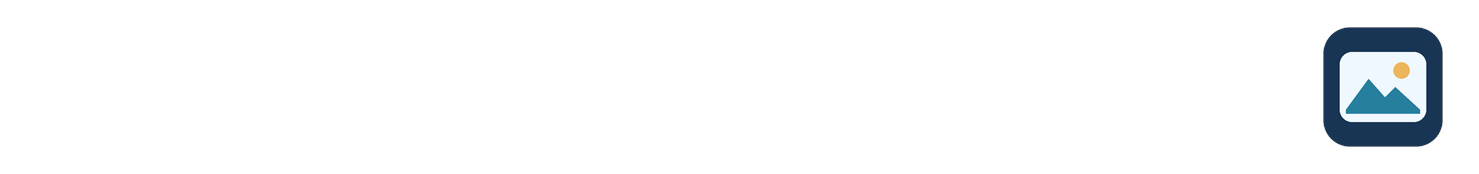
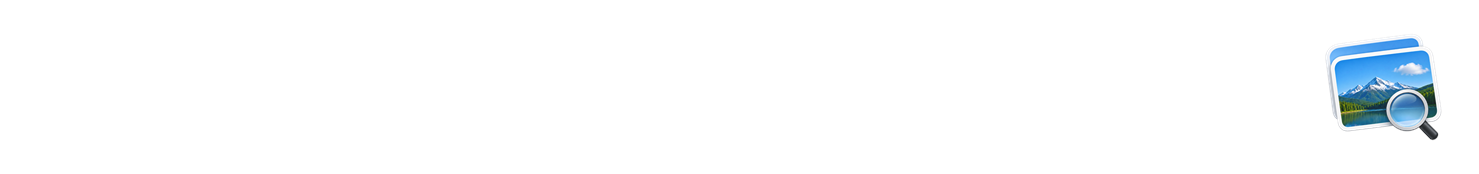
Use per-user setup and unify Photo Viewer branding

Changed region(s): [[0.8709, 0.1437, 0.9953, 0.8621]]

diff --git a/source/PhotoViewer.Lib/UI/BaseControls/PhLogo.axaml.cs b/source/PhotoViewer.Lib/UI/BaseControls/PhLogo.axaml.cs
@@ -1,4 +1,5 @@
 using Avalonia;
+using Avalonia.Platform;
 using Avalonia.Media;
 using Avalonia.Media.Imaging;
 using Avalonia.Svg.Skia;
@@ -6,6 +7,7 @@ using PhotoViewer.Common.Photoing;
 using PhotoViewer.Common;
 using PhotoViewer.Common.AppThemes;
 using PhotoViewer.Common.Types;
+using System;
 
 namespace PhotoViewer.UI;
 
@@ -65,10 +67,8 @@ public partial class PhLogo : PhControl
         }
         catch { }
 
-        using var stream = Resx.GetDefaultWindowIconAsStream();
-        if (stream is null) return null;
-
-        return Bitmap.DecodeToHeight(stream, 256);
+        using var stream = AssetLoader.Open(new Uri("avares://PhotoViewer.Lib/Assets/photo-viewer-logo.png"));
+        return new Bitmap(stream);
     }
 
 }
